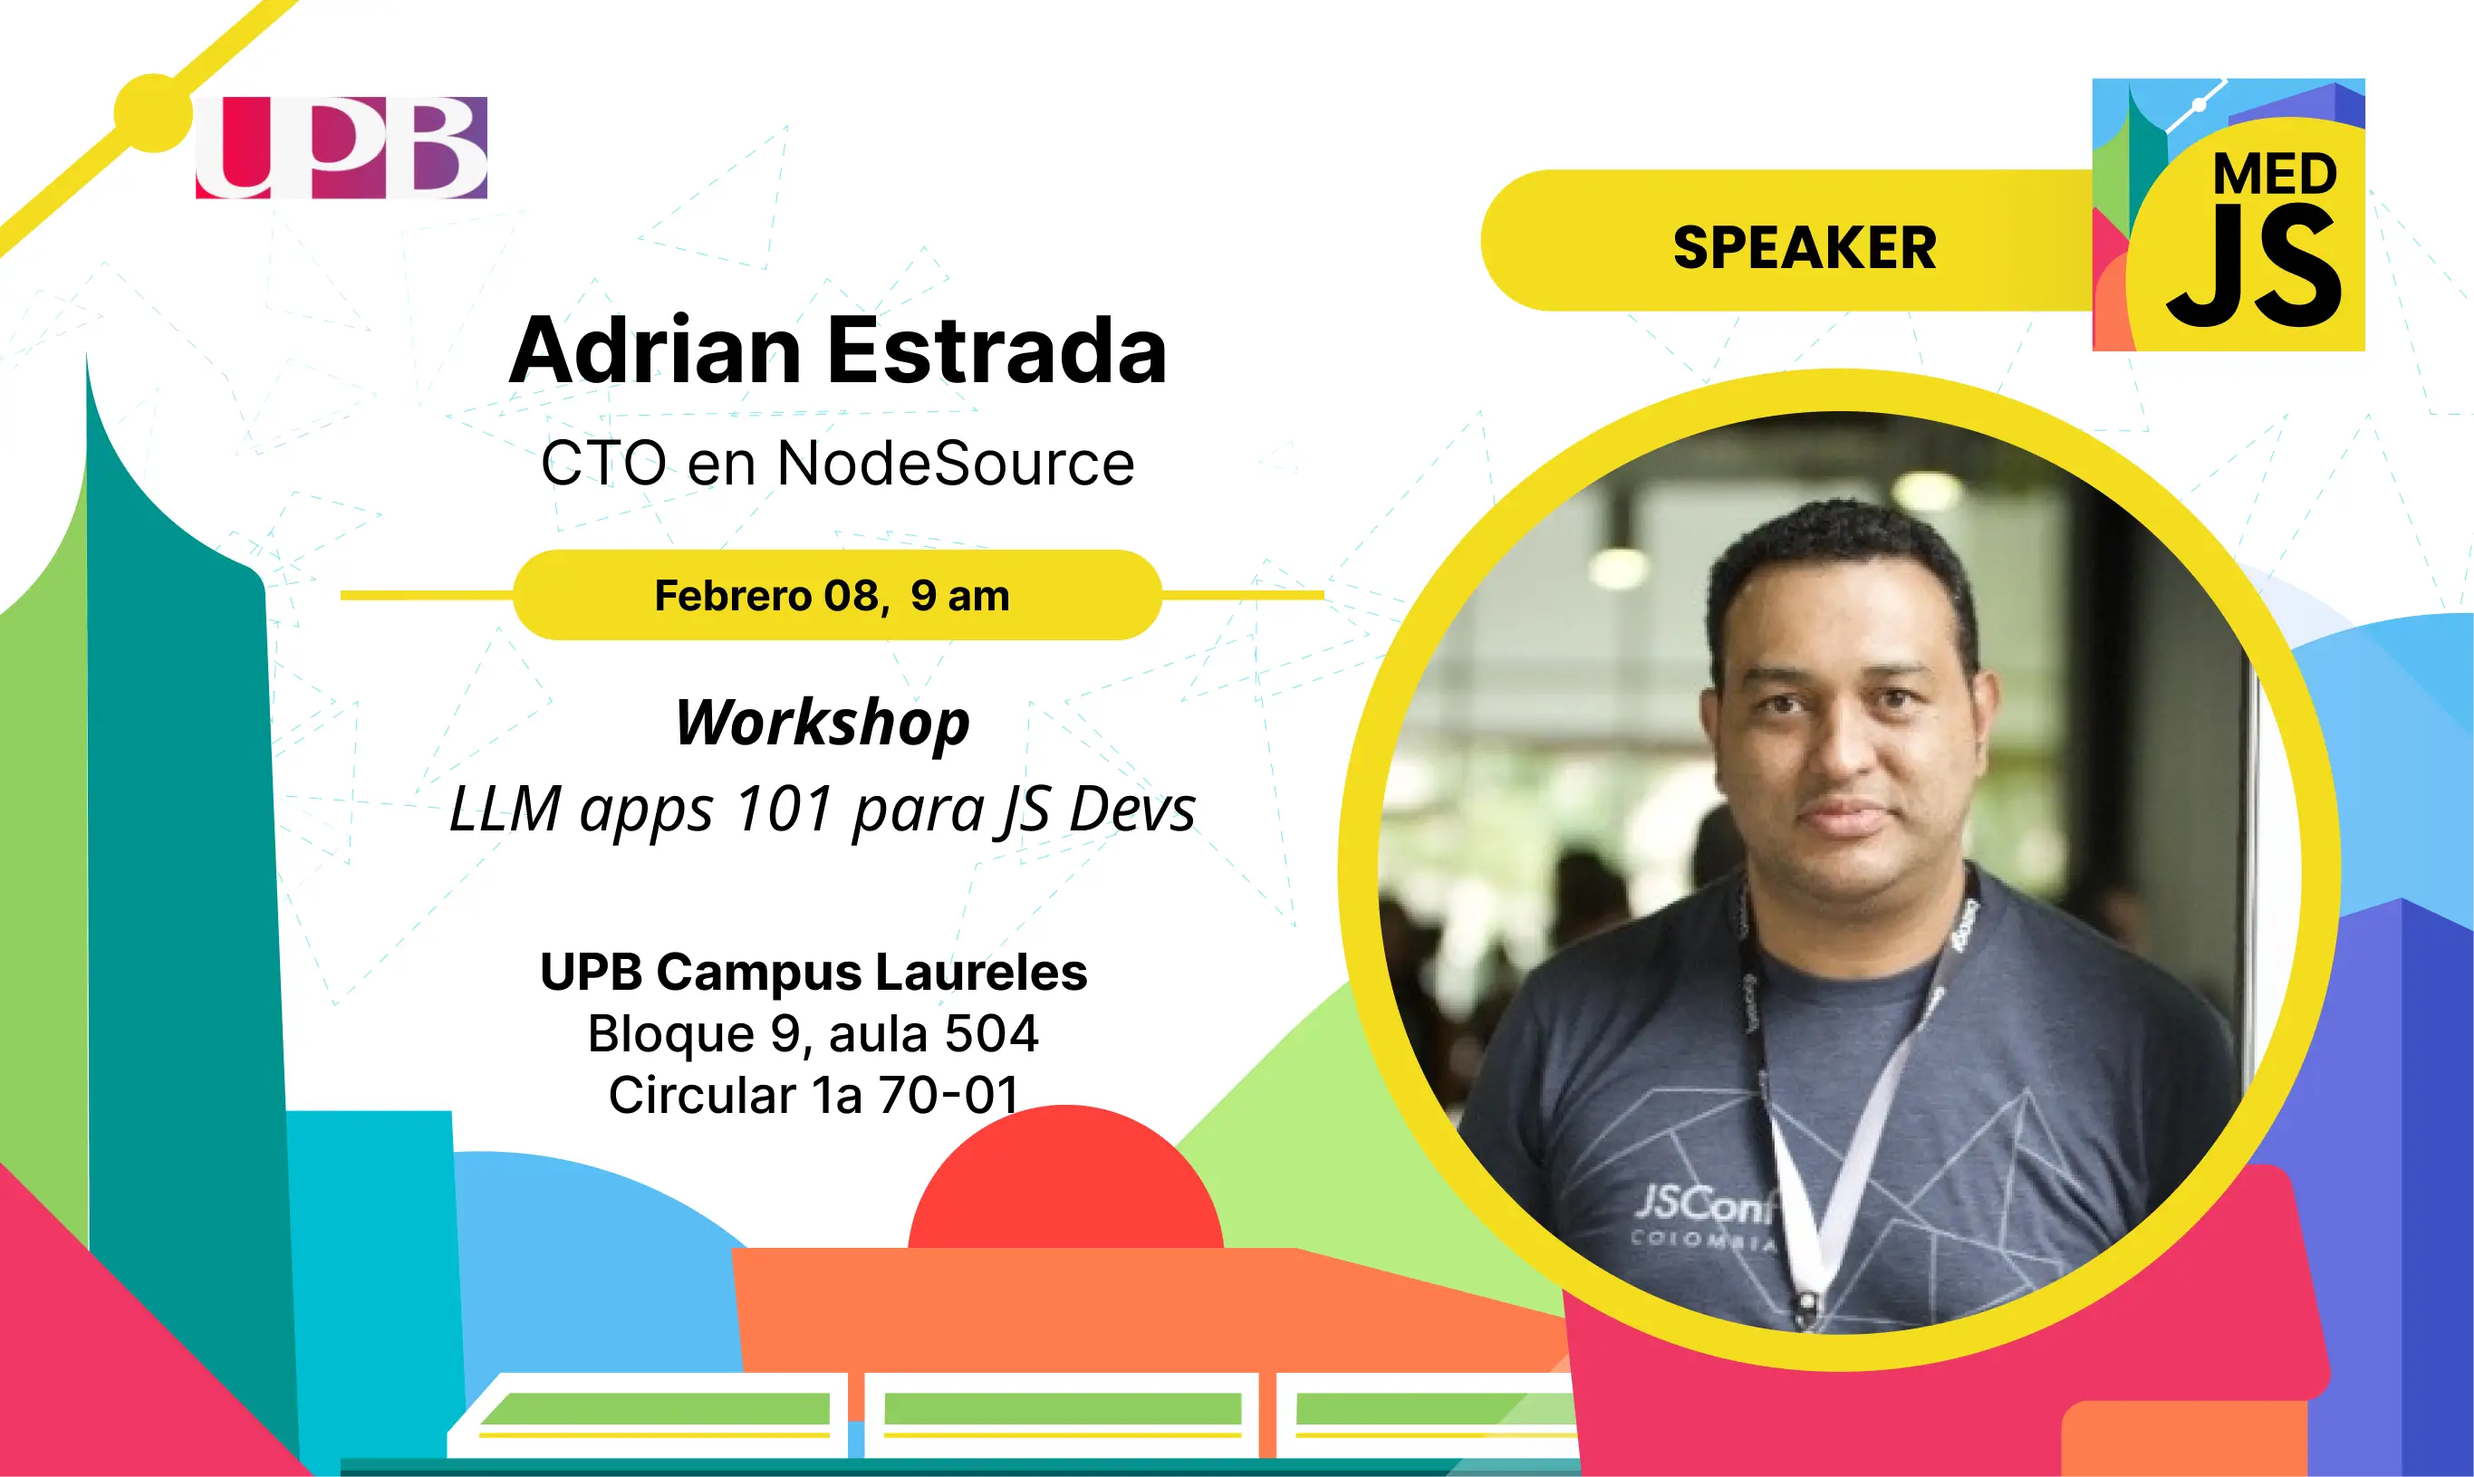
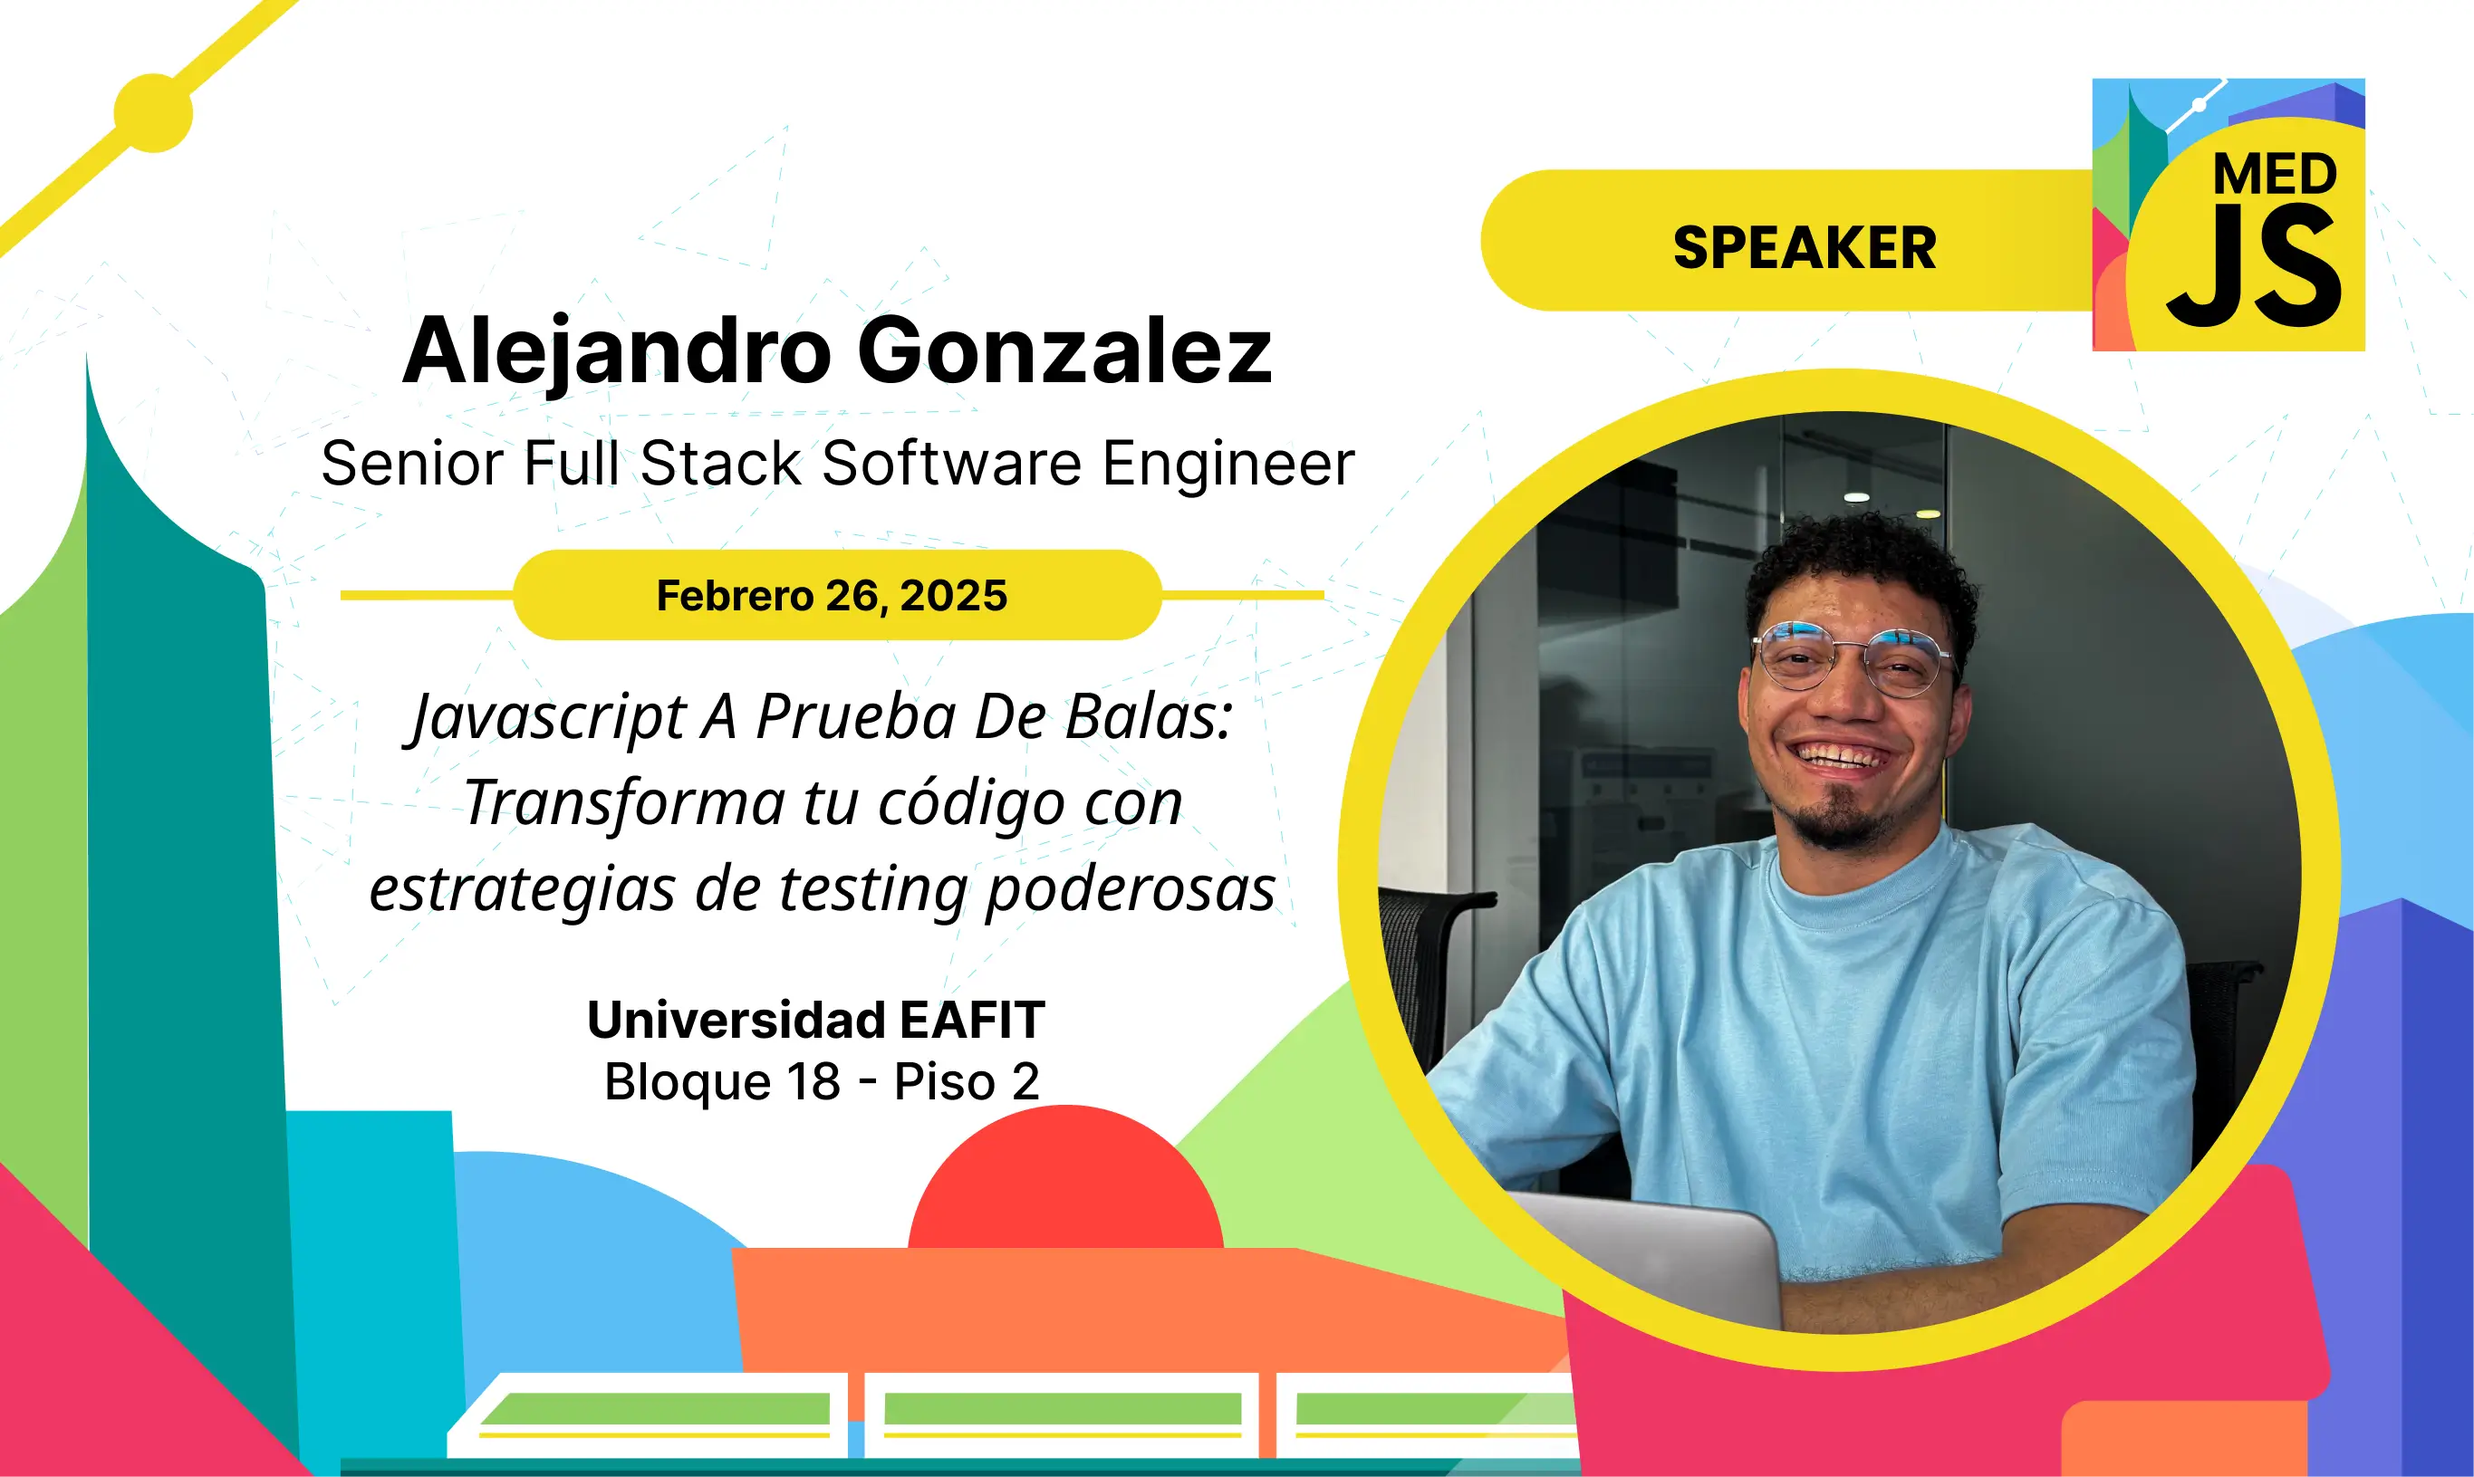
feat: :sparkles: update event details and link for upcoming workshop

diff --git a/src/components/Events.tsx b/src/components/Events.tsx
@@ -5,14 +5,14 @@ import { Calendar, Clock, MapPin } from 'lucide-react';
 
 export default function Events() {
   const nextEvent = {
-    title: `LLM apps 101 para <br /> Javascript Developers`,
-    date: '08 de Febrero, 2025',
-    time: '09:00 - 11:00',
-    location: 'UPB - Universidad Pontifície Bolivariana',
+    title: `JavaScript a Prueba de Balas: <br /> Transforma tu Código con Estrategias de Testing`,
+    date: '26 de Febrero, 2025',
+    time: '18:30 - 20:30',
+    location: 'Universidad Eafit - Bloque 18, Piso 2',
     description:
-      '¿Quieres crear aplicaciones con inteligencia artificial? En este workshop de 2 horas, aprenderás los fundamentos para desarrollar tus primeras apps con Large Language Models (LLMs) usando JavaScript. ¡Manos a la obra!',
-    speaker: 'Ana Martínez',
-    speakerRole: 'Senior Frontend Developer @ TechCorp',
+      'Una charla acerca de cómo dominar el testing te puede convertir en un mejor desarrollador, brindarte más confianza al mantener una aplicación, además de explorar los diferentes tipos de testing y herramientas (jest, sinon, cypress, playwright) para lograrlo con ejemplos prácticos',
+    speaker: 'Alejandro González',
+    speakerRole: 'Senior FullStack Developer',
   };
 
   return (
@@ -64,10 +64,11 @@ export default function Events() {
                     <div className="mt-8">
                       <div className="section-title text-md-start">
                         <h6 className="text-lg font-semibold text-white/50">
-                          Workshop
+                          Charla
                         </h6>
                         <h3 className="mt-2 text-2xl font-semibold leading-normal text-white md:text-3xl md:leading-normal">
-                          LLM apps 101 para <br /> Javascript Developers
+                          JavaScript a Prueba de Balas: <br /> Transforma tu
+                          Código con Estrategias de Testing
                         </h3>
                       </div>
                     </div>
@@ -78,7 +79,7 @@ export default function Events() {
                           {nextEvent.description}
                         </p>
                         <Link
-                          href="https://www.meetup.com/es-ES/medellinjs/events/305920128/"
+                          href="https://www.meetup.com/es-ES/medellinjs/events/306225397/"
                           target="_blank"
                           rel="noopener noreferrer"
                           className="flex text-white"
